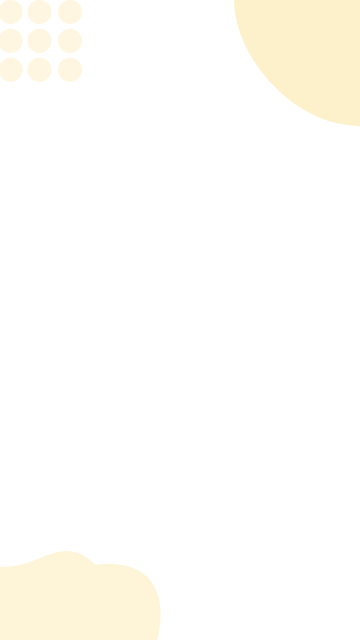
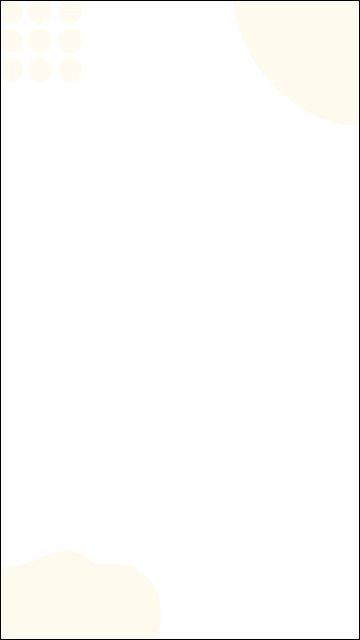
improvement: change tile images and background color

Changed region(s): [[0.6417, 0.0, 1.0, 1.0], [0.0, 0.9688, 0.0306, 1.0], [0.0, 0.0, 0.0306, 0.0312]]

diff --git a/tailwind.config.ts b/tailwind.config.ts
@@ -24,7 +24,7 @@ import { TailwindConfig, TailwindThemeFontSizes } from "tailwindcss/tailwind-con
   "secondary-dark": "#F66900",
   "on-secondary": "#ffffff",
 
-  background: "#E3E3E3",
+  background: "#F5F5F5",
   "on-background": "#444444",
 
   surface: "#ffffff",
